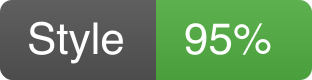
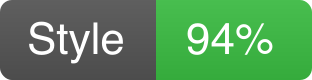
ReportKeys class

Changed region(s): [[0.5769, 0.275, 0.8942, 0.7]]

diff --git a/metrics/outputs/svg.py b/metrics/outputs/svg.py
@@ -1,11 +1,12 @@
 # -*- coding: UTF-8 -*-
 
 import os
+import datetime
 
 from jinja2 import Template
 
 from .abstract_output import AbstractOutput
-import metrics.results as metrics_results
+import metrics.report_keys as report_keys
 
 class SVG(AbstractOutput):
     """
@@ -36,40 +37,25 @@ class SVG(AbstractOutput):
         os.makedirs(self.path, exist_ok=True)
 
         # Output date
-        value = results[metrics_results.REPORT_DATE]
-        self.icon("%s/metric_date.svg" % self.path, key="Date", value=value.strftime('%m/%d'),
-                  color=self.neutral_color)
+        for key in report_keys.__dict__.values():
+            # Only keep report keys that can be rendered
+            if not isinstance(key, report_keys.ReportKeys) or key.python_type == str or key.abbreviation is None:
+                continue
 
-        # Output lines of code
-        value = results[metrics_results.LINES_OF_CODE]
-        self.icon("%s/metric_lines.svg" % self.path, key="Lines", value=value,
-                  color=self.neutral_color if value > 0 else self.failure_color)
+            # Prepare value
+            value = results[key]
+            if isinstance(value, datetime.datetime):
+                value = value.strftime('%m/%d')
 
-        # Output documentation rate
-        value = results[metrics_results.COMMENT_RATE]
-        self.icon('%s/metric_comments.svg' % self.path, key="/* */", value=self.prettify(value),
-                  color=self.color_from_float(value, max_value=0.45))
+            # Obtain color
+            if key.ub is None:
+                color = self.neutral_color
+            else:
+                color = self.color_from_float(value, max_value=key.ub, min_value=key.lb, invert=not key.more_is_better)
 
-        # Output test coverage
-        value = results[metrics_results.TESTS_COVERAGE]
-        self.icon('%s/metric_tests.svg' % self.path, key="Tests", value=self.prettify(value),
-                  color=self.color_from_float(value, min_value=0.2))
-
-        # Output maintainability index
-        value = results[metrics_results.MAINTAINABILITY_INDEX]
-        self.icon('%s/metric_maintainability_index.svg' % self.path, key="MI", value=self.prettify(value),
-                  color=self.color_from_float(value, min_value=0.1, max_value=0.5))
-
-        # Output cyclomatic complexity
-        value = results[metrics_results.MAX_CYCLOMATIC_COMPLEXITY]
-        self.icon('%s/metric_max_cc.svg' % self.path, key='<tspan style="text-decoration:overline">CC</tspan>',
-                  color=self.color_from_float(value, min_value=10, max_value=35, invert=True),
-                  value=self.prettify(value))
-
-        # Output code style
-        value = results[metrics_results.CODE_STYLE]
-        self.icon('%s/metric_code_style.svg' % self.path, key='PEP8', color=self.color_from_float(value),
-                  value=self.prettify(value))
+            # Create icon
+            self.icon("%s/metric_%s.svg" % (self.path, key.to_file_name()),
+                      key=key.abbreviate(), value=self.prettify(value), color=color)
 
     def color_from_float(self, value:float, min_value=0.0, max_value=1.0, invert=False):
         """

diff --git a/metrics/report_keys.py b/metrics/report_keys.py
@@ -1,0 +1,77 @@
+# -*- coding: UTF-8 -*-
+
+import datetime
+
+class ReportKeys:
+    """
+    Key of the metrics report.
+
+    :ivar name: Name of the key.
+    :ivar python_type: Python type of the key.
+    :ivar abbreviation: Shorter name for the key.
+    :ivar lb: Lower bound on the key value to be acceptable.
+    :ivar ub: Upper bound on the key value to be acceptable.
+    :ivar more_is_better: Boolean true if more is better.
+    """
+
+    def __init__(self, name: str, python_type: type = str, abbreviation: str = None, lb = None, ub = None,
+                 more_is_better: bool = True):
+        """
+
+        :param name: Name of the key.
+        :param python_type: Python type of the key.
+        :param abbreviation: Shorter name for the key.
+        :param lb: Lower bound on the key value to be acceptable.
+        :param ub: Upper bound on the key value to be acceptable.
+        :param more_is_better: Boolean true if more is better.
+        """
+        self.name = name
+        self.python_type = python_type
+        self.abbreviation = abbreviation
+        self.lb = lb
+        self.ub = ub
+        self.more_is_better = more_is_better
+
+    def abbreviate(self):
+        """
+        Get the abbreviation of this key.
+
+        :return: String.
+        :rtype: str
+        """
+        return self.abbreviation if self.abbreviation is not None else self.name
+
+    def to_file_name(self, new_spaces="_"):
+        """
+        Get a file name from the key, lower case with underscores.
+
+        :param new_spaces: Replacement for spaces.
+        :return: String.
+        """
+        base_name  = "".join([c for c in self.name.lower() if c.isalpha() or c.isdigit() or c == " "])
+        base_name = base_name.replace("  ", " ") # Replace double spaces
+        base_name = base_name.replace(" ", new_spaces)
+        return base_name
+
+    def __str__(self):
+        return self.name
+
+    def __lt__(self, other):
+        return str(self) < str(other)
+
+    def __hash__(self):
+        return id(self)
+
+# Result key constants
+CODE_PATH = ReportKeys('Code path', str)
+REPORT_DATE = ReportKeys('Report date', datetime.datetime, abbreviation="Date")
+LINES_OF_CODE = ReportKeys('Lines of code', int, abbreviation="Lines", lb=1)
+COMMENT_RATE = ReportKeys('Documentation rate', float, abbreviation="/* */", lb=0.0, ub=0.45)
+TESTS_COVERAGE = ReportKeys('Tests coverage', float, abbreviation="Tests", lb=0.2, ub=1.0)
+MAINTAINABILITY_INDEX = ReportKeys('Maintainability index', float, abbreviation="MI", lb=0.1 ,ub=0.5)
+AVERAGE_CYCLOMATIC_COMPLEXITY = ReportKeys('Cyclomatic complexity - average', float, abbreviation="CC~",
+                                           more_is_better=False, lb=10, ub=35)
+MAX_CYCLOMATIC_COMPLEXITY = ReportKeys('Cyclomatic complexity - maximum', int, abbreviation='CC^',
+                                       more_is_better=False, lb=10, ub=35)
+MAX_CYCLOMATIC_COMPLEXITY_FUNCTION = ReportKeys('Max cyclomatic complexity function', str)
+CODE_STYLE = ReportKeys('Code style', float, abbreviation="Style", lb=0.1, ub=0.95)

diff --git a/tests/test_outputs.py b/tests/test_outputs.py
@@ -8,7 +8,7 @@ import io
 from unittest.mock import patch, mock_open, MagicMock
 
 from metrics.outputs import JSON, RST, Console, SVG, PNG
-import metrics.results as metrics_results
+import metrics.report_keys as report_keys
 
 class TestOutputs(unittest.TestCase):
     def setUp(self):
@@ -16,16 +16,16 @@ class TestOutputs(unittest.TestCase):
 
         # Data
         self.results = {
-            metrics_results.CODE_PATH: "metrics",
-            metrics_results.REPORT_DATE: datetime.datetime(2018, 6, 24, 1, 2, 3),
-            metrics_results.LINES_OF_CODE: 127,
-            metrics_results.COMMENT_RATE: 0.32,
-            metrics_results.TESTS_COVERAGE: None,
-            metrics_results.MAINTAINABILITY_INDEX: 0.82,
-            metrics_results.AVERAGE_CYCLOMATIC_COMPLEXITY: 3.5,
-            metrics_results.MAX_CYCLOMATIC_COMPLEXITY: 9,
-            metrics_results.MAX_CYCLOMATIC_COMPLEXITY_FUNCTION: "...",
-            metrics_results.CODE_STYLE: 0.8
+            report_keys.CODE_PATH: "metrics",
+            report_keys.REPORT_DATE: datetime.datetime(2018, 6, 24, 1, 2, 3),
+            report_keys.LINES_OF_CODE: 127,
+            report_keys.COMMENT_RATE: 0.32,
+            report_keys.TESTS_COVERAGE: None,
+            report_keys.MAINTAINABILITY_INDEX: 0.82,
+            report_keys.AVERAGE_CYCLOMATIC_COMPLEXITY: 3.5,
+            report_keys.MAX_CYCLOMATIC_COMPLEXITY: 9,
+            report_keys.MAX_CYCLOMATIC_COMPLEXITY_FUNCTION: "...",
+            report_keys.CODE_STYLE: 0.8
         }
 
         # Mock
@@ -46,7 +46,7 @@ class TestOutputs(unittest.TestCase):
             out.output(self.results)
         m.assert_called_once_with('test.json', 'w')
         handle = m()
-        handle.write.assert_any_call('"%s"' % metrics_results.TESTS_COVERAGE)
+        handle.write.assert_any_call('"%s"' % report_keys.TESTS_COVERAGE)
 
     def test_rst(self):
         out = RST("test.rst")
@@ -62,8 +62,8 @@ class TestOutputs(unittest.TestCase):
         # Fetch output
         sys.stdout.seek(0)
         report = sys.stdout.read()
-        self.assertGreaterEqual(report.find("%s: 32%%" % metrics_results.COMMENT_RATE), 0)
-        self.assertGreaterEqual(report.find("%s: Failed" % metrics_results.TESTS_COVERAGE), 0)
+        self.assertGreaterEqual(report.find("%s: 32%%" % report_keys.COMMENT_RATE), 0)
+        self.assertGreaterEqual(report.find("%s: Failed" % report_keys.TESTS_COVERAGE), 0)
 
     def test_svg(self):
         output_path = os.path.dirname(__file__)

diff --git a/tests/test_metrics.py b/tests/test_metrics.py
@@ -3,8 +3,8 @@
 import unittest
 import os
 
-from metrics.metrics import raw, cyclomatic_complexity, code_style
-import metrics.results as metric_results
+from metrics.measures import raw, cyclomatic_complexity, code_style
+import metrics.report_keys as report_keys
 
 TEST_CODE_PATH = "metrics"
 
@@ -16,19 +16,19 @@ class TestMetrics(unittest.TestCase):
         r = {}
         raw(TEST_CODE_PATH, r)
 
-        self.assertIn(metric_results.LINES_OF_CODE, r)
-        self.assertIn(metric_results.COMMENT_RATE, r)
+        self.assertIn(report_keys.LINES_OF_CODE, r)
+        self.assertIn(report_keys.COMMENT_RATE, r)
 
-        self.assertGreater(r[metric_results.MAINTAINABILITY_INDEX], 0.0)
-        self.assertLessEqual(r[metric_results.MAINTAINABILITY_INDEX], 1.0)  # Equal because, perfection is reachable, sometimes  ...
+        self.assertGreater(r[report_keys.MAINTAINABILITY_INDEX], 0.0)
+        self.assertLessEqual(r[report_keys.MAINTAINABILITY_INDEX], 1.0)  # Equal because, perfection is reachable, sometimes  ...
 
     def test_cyclomatic_complexity(self):
         r = {}
         cyclomatic_complexity(TEST_CODE_PATH, r)
 
-        self.assertLess(r[metric_results.MAX_CYCLOMATIC_COMPLEXITY], 30)
-        self.assertLess(r[metric_results.AVERAGE_CYCLOMATIC_COMPLEXITY], 20)
-        self.assertIsNotNone(r[metric_results.MAX_CYCLOMATIC_COMPLEXITY_FUNCTION])
+        self.assertLess(r[report_keys.MAX_CYCLOMATIC_COMPLEXITY], 30)
+        self.assertLess(r[report_keys.AVERAGE_CYCLOMATIC_COMPLEXITY], 20)
+        self.assertIsNotNone(r[report_keys.MAX_CYCLOMATIC_COMPLEXITY_FUNCTION])
 
     def test_code_style(self):
         r = {}

diff --git a/metrics/outputs/png.py b/metrics/outputs/png.py
@@ -27,17 +27,26 @@ class PNG(SVG):
         self.keep_svg = keep_svg
         self.scale = scale
 
-    def output(self, results):
+    def list_svg(self, file_suffix=".svg"):
+        """
+        Get all the files with a given suffix.
+
+        :param file_suffix: Suffix of the files.
+        :return: Set of file names in path
+        """
         try:
-            initial_svgs = {f for f  in os.listdir(self.path) if f.endswith(".svg")}
+            return  {f for f in os.listdir(self.path) if f.endswith(file_suffix)}
         except FileNotFoundError:
-            initial_svgs = {}
+            return {}
+
+    def output(self, results):
+        initial_svgs = self.list_svg()
 
         # Create SVGs
         super().output(results)
 
         # Convert new svgs into png
-        all_svgs = {f for f in os.listdir(self.path) if f.endswith(".svg")}
+        all_svgs = self.list_svg()
         for name in all_svgs:
             new_name = name[:-3] + "png"
             cairosvg.svg2png(url="%s/%s" % (self.path, name), write_to="%s/%s" % (self.path, new_name),

diff --git a/metrics/measures/cyclomatic_complexity.py b/metrics/measures/cyclomatic_complexity.py
@@ -4,7 +4,8 @@ from radon.cli.harvest import CCHarvester
 from radon.complexity import SCORE
 from radon.cli import Config
 
-from ..results import MAX_CYCLOMATIC_COMPLEXITY, MAX_CYCLOMATIC_COMPLEXITY_FUNCTION, AVERAGE_CYCLOMATIC_COMPLEXITY
+from metrics.report_keys import MAX_CYCLOMATIC_COMPLEXITY, MAX_CYCLOMATIC_COMPLEXITY_FUNCTION, \
+    AVERAGE_CYCLOMATIC_COMPLEXITY
 
 def cyclomatic_complexity(code_path, results):
     """

diff --git a/metrics/outputs/abstract_output.py b/metrics/outputs/abstract_output.py
@@ -57,7 +57,7 @@ class AbstractOutput(ABC):
             if 0.025 <= value <= 1.0:
                 return "%.0f%%" % (value * 100.0)
             else:
-                return "%g" % value
+                return "%.1f" % value
         elif isinstance(value, datetime.datetime):
             return value.strftime(self.datetime_format)
         elif isinstance(value, str) and os.path.exists(value):

diff --git a/metrics/outputs/json.py b/metrics/outputs/json.py
@@ -13,4 +13,4 @@ class JSON(AbstractOutput):
     def output(self, results):
         os.makedirs(os.path.dirname(self.path), exist_ok=True)
         with open('%s' % self.path, 'w') as file:
-            json.dump({k: self.dump(v) for k, v in results.items()}, file, indent=4)
+            json.dump({str(k): self.dump(v) for k, v in results.items()}, file, indent=4)

diff --git a/metrics/measures/raw.py b/metrics/measures/raw.py
@@ -4,7 +4,7 @@ from deepmerge import always_merger
 from radon.cli.harvest import RawHarvester, MIHarvester
 from radon.cli import Config
 
-from ..results import LINES_OF_CODE, COMMENT_RATE, MAINTAINABILITY_INDEX
+from metrics.report_keys import LINES_OF_CODE, COMMENT_RATE, MAINTAINABILITY_INDEX
 
 def raw(code_path, results):
     """

diff --git a/metrics/measures/__init__.py b/metrics/measures/__init__.py
@@ -2,7 +2,7 @@
 
 import datetime
 
-from ..results import CODE_PATH, REPORT_DATE
+from metrics.report_keys import CODE_PATH, REPORT_DATE
 from .raw import raw
 from .cyclomatic_complexity import cyclomatic_complexity
 from .tests_coverage import tests_coverage

diff --git a/metrics/outputs/console.py b/metrics/outputs/console.py
@@ -1,7 +1,7 @@
 # -*- coding: UTF-8 -*-
 
 from .abstract_output import AbstractOutput
-from metrics.results import CODE_PATH, REPORT_DATE
+from metrics.report_keys import CODE_PATH, REPORT_DATE
 
 class Console(AbstractOutput):
     """

diff --git a/metrics/outputs/rst.py b/metrics/outputs/rst.py
@@ -4,7 +4,7 @@ import rst
 import os
 
 from .abstract_output import AbstractOutput
-from metrics.results import CODE_PATH, REPORT_DATE
+from metrics.report_keys import CODE_PATH, REPORT_DATE
 
 class RST(AbstractOutput):
     """
